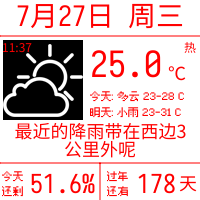
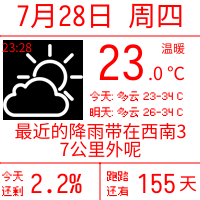
优化一下图标80x80的小图标

diff --git a/piximg/piximg.go b/piximg/piximg.go
@@ -77,7 +77,7 @@ func DrawWeatherDescribe(dc *gg.Context, str string) {
 	}
 	if realLength(str) > 20 {
 		strRune := []rune(str)
-		str = string(strRune[:10]) + "\n" + string(strRune[11:])
+		str = string(strRune[:10]) + "\n" + string(strRune[10:])
 	}
 	dc.DrawStringWrapped(str, 200/2, 140, 0.5, 0.5, 200-10, 1.3, gg.AlignCenter)
 }
@@ -93,19 +93,21 @@ func DrawTemp(dc *gg.Context, tmp string, f string) {
 	if err := dc.LoadFontFace("./static/SourceHanSansCN-Regular.ttf", 18); err != nil {
 		panic(err)
 	}
-	dc.DrawString("℃", 168, 80)
+	dc.DrawString(tmp[len(tmp)-2:]+" ℃", 148, 80)
 
-	if err := dc.LoadFontFace("./static/sarasa-mono-sc-nerd-regular.ttf", 36); err != nil {
+	if err := dc.LoadFontFace("./static/sarasa-mono-sc-nerd-regular.ttf", 48); err != nil {
 		panic(err)
 	}
-	dc.DrawString(tmp, 90, 77)
+	temp := tmp[:len(tmp)-2]
+	sw_, _ := dc.MeasureString(temp)
+	dc.DrawString(temp, 145-sw_, 80)
 
 	if err := dc.LoadFontFace("./static/SourceHanSansCN-Regular.ttf", 12); err != nil {
 		panic(err)
 	}
-	sw_, _ := dc.MeasureString(f)
+	sw_, _ = dc.MeasureString(f)
 
-	dc.DrawString(f, 196-sw_, 52)
+	dc.DrawString(f, 185-sw_, 53)
 }
 
 func DrawBottom(dc *gg.Context) {
